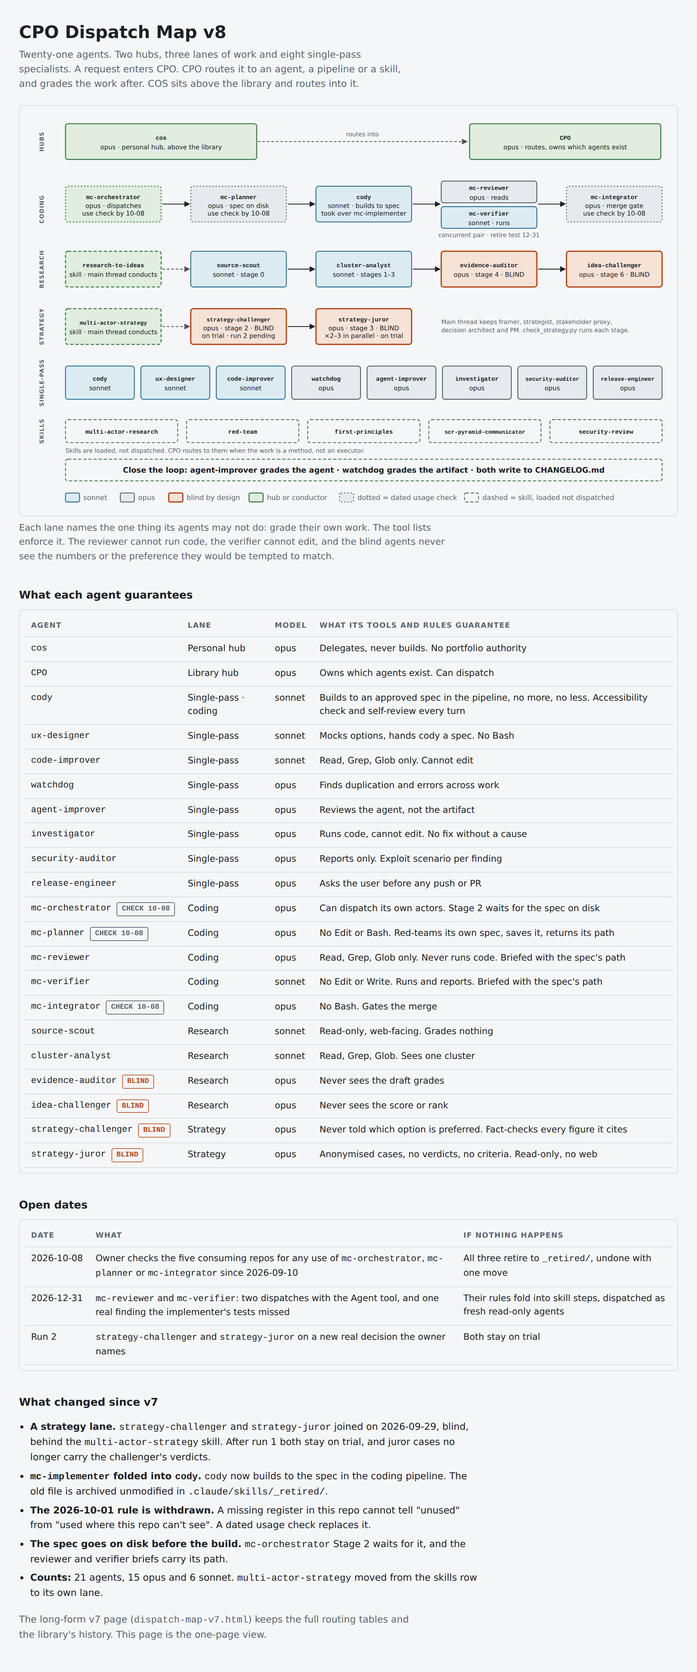
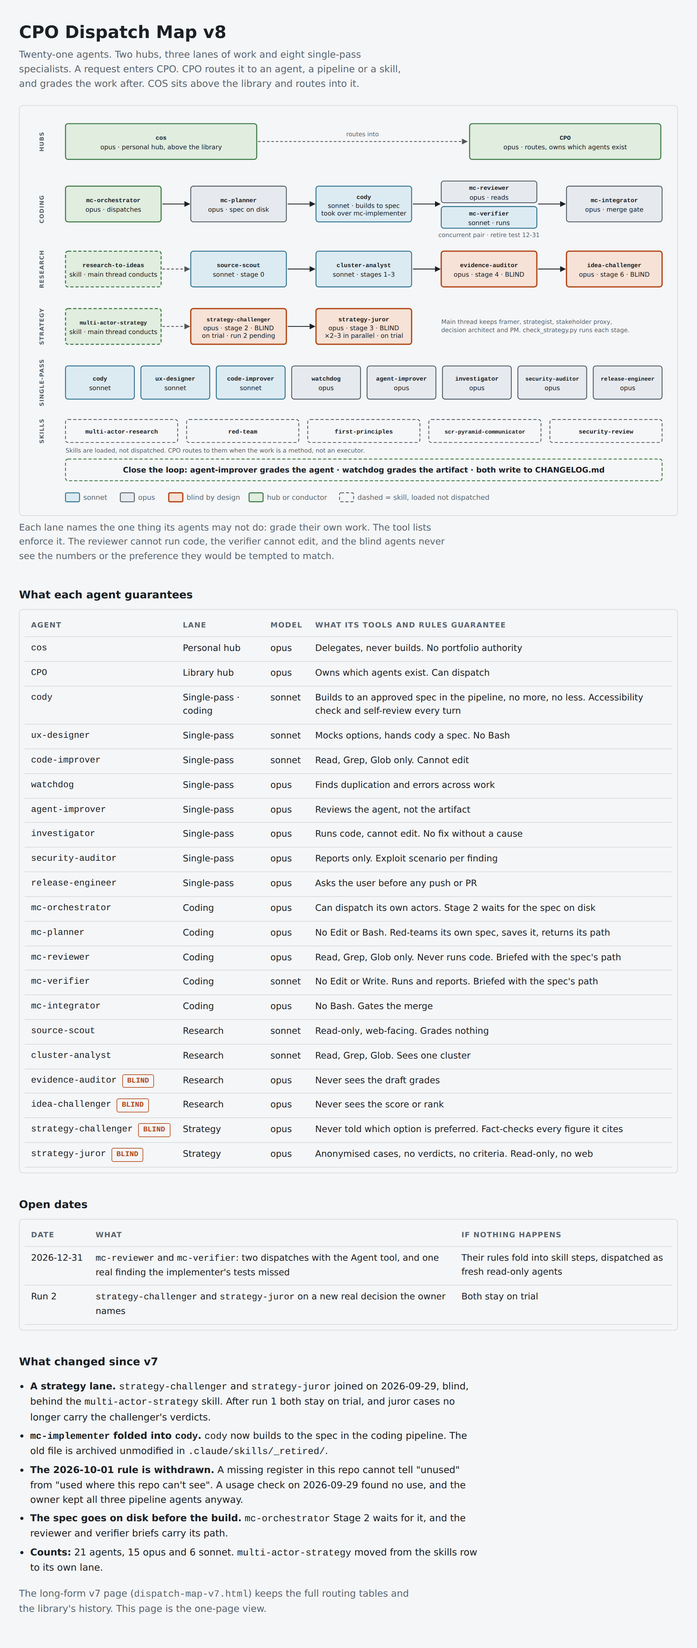
Record mc-* usage check: no use found, owner keeps all three
Checked four consuming repos (all branches) and 85 cloud sessions since
2026-09-10: agents present, not used. Owner keeps mc-orchestrator,
mc-planner and mc-integrator; the 2026-10-08 retirement default is
cancelled. Evidence in work-samples/mc-usage-check-2026-09-29.md.
CPO open items, ledger and dispatch map v8 updated.

Claude-Session: https://claude.ai/code/session_01Vca5TBjGxLdbmneNzGJ286

Changed region(s): [[0.0309, 0.0312, 0.9582, 0.9969], [0.0309, 0.2181, 0.0618, 0.2492]]

diff --git a/dispatch-map-v8.html b/dispatch-map-v8.html
@@ -56,7 +56,7 @@ td.nw{white-space:nowrap}
 <p class="lede">Twenty-one agents. Two hubs, three lanes of work and eight single-pass specialists. A request enters CPO. CPO routes it to an agent, a pipeline or a skill, and grades the work after. COS sits above the library and routes into it.</p>
 
 <figure>
-<div class="scroll"><svg viewBox="0 96 1016 626" role="img" aria-label="Dispatch map: COS routes into CPO. Coding lane: mc-orchestrator, mc-planner, cody building to spec, the mc-reviewer and mc-verifier pair, mc-integrator. Research lane: research-to-ideas skill with four agents. Strategy lane: multi-actor-strategy skill with strategy-challenger and strategy-juror. Eight single-pass specialists and five skills." xmlns="http://www.w3.org/2000/svg"><defs><marker id="ar" viewBox="0 0 8 8" refX="7" refY="4" markerWidth="7" markerHeight="7" orient="auto"><path d="M0 0L8 4L0 8z" fill="currentColor"/></marker></defs><text x="0" y="0" class="lane" text-anchor="middle" transform="translate(30 144) rotate(-90)">HUBS</text><rect class="hub" x="64" y="116" width="300" height="56" rx="4"/><text class="an" x="214.0" y="141.0" text-anchor="middle">cos</text><text class="as" x="214.0" y="156.0" text-anchor="middle">opus · personal hub, above the library</text><rect class="hub" x="698" y="116" width="300" height="56" rx="4"/><text class="an" x="848.0" y="141.0" text-anchor="middle">CPO</text><text class="as" x="848.0" y="156.0" text-anchor="middle">opus · routes, owns which agents exist</text><line class="brief" x1="366" y1="144" x2="694" y2="144" marker-end="url(#ar)"/><text class="cap" x="530" y="136" text-anchor="middle">routes into</text><text x="0" y="0" class="lane" text-anchor="middle" transform="translate(30 250) rotate(-90)">CODING</text><rect class="hub trial" x="64.0" y="214" width="150" height="56" rx="4"/><text class="an" x="139.0" y="234.0" text-anchor="middle">mc-orchestrator</text><text class="as" x="139.0" y="248.0" text-anchor="middle">opus · dispatches</text><text class="as" x="139.0" y="260.0" text-anchor="middle">use check by 10-08</text><rect class="opus trial" x="260.5" y="214" width="150" height="56" rx="4"/><text class="an" x="335.5" y="234.0" text-anchor="middle">mc-planner</text><text class="as" x="335.5" y="248.0" text-anchor="middle">opus · spec on disk</text><text class="as" x="335.5" y="260.0" text-anchor="middle">use check by 10-08</text><rect class="agent" x="457.0" y="214" width="150" height="56" rx="4"/><text class="an" x="532.0" y="234.0" text-anchor="middle">cody</text><text class="as" x="532.0" y="248.0" text-anchor="middle">sonnet · builds to spec</text><text class="as" x="532.0" y="260.0" text-anchor="middle">took over mc-implementer</text><rect class="opus" x="653.5" y="206" width="150" height="34" rx="4"/><text class="an" x="728.5" y="220.0" text-anchor="middle">mc-reviewer</text><text class="as" x="728.5" y="235.0" text-anchor="middle">opus · reads</text><rect class="agent" x="653.5" y="246" width="150" height="34" rx="4"/><text class="an" x="728.5" y="260.0" text-anchor="middle">mc-verifier</text><text class="as" x="728.5" y="275.0" text-anchor="middle">sonnet · runs</text><text class="cap" x="728.5" y="294" text-anchor="middle">concurrent pair · retire test 12-31</text><rect class="opus trial" x="850.0" y="214" width="150" height="56" rx="4"/><text class="an" x="925.0" y="234.0" text-anchor="middle">mc-integrator</text><text class="as" x="925.0" y="248.0" text-anchor="middle">opus · merge gate</text><text class="as" x="925.0" y="260.0" text-anchor="middle">use check by 10-08</text><line x1="216.0" y1="242.0" x2="258.5" y2="242.0" marker-end="url(#ar)"/><line x1="412.5" y1="242.0" x2="455.0" y2="242.0" marker-end="url(#ar)"/><line x1="609.0" y1="242.0" x2="651.5" y2="242.0" marker-end="url(#ar)"/><line x1="805.5" y1="242.0" x2="848.0" y2="242.0" marker-end="url(#ar)"/><text x="0" y="0" class="lane" text-anchor="middle" transform="translate(30 344) rotate(-90)">RESEARCH</text><rect class="skillhub" x="64.0" y="316" width="150" height="56" rx="4"/><text class="an" x="139.0" y="341.0" text-anchor="middle">research-to-ideas</text><text class="as" x="139.0" y="356.0" text-anchor="middle">skill · main thread conducts</text><rect class="agent" x="260.5" y="316" width="150" height="56" rx="4"/><text class="an" x="335.5" y="341.0" text-anchor="middle">source-scout</text><text class="as" x="335.5" y="356.0" text-anchor="middle">sonnet · stage 0</text><rect class="agent" x="457.0" y="316" width="150" height="56" rx="4"/><text class="an" x="532.0" y="341.0" text-anchor="middle">cluster-analyst</text><text class="as" x="532.0" y="356.0" text-anchor="middle">sonnet · stages 1–3</text><rect class="blind" x="653.5" y="316" width="150" height="56" rx="4"/><text class="an" x="728.5" y="341.0" text-anchor="middle">evidence-auditor</text><text class="as" x="728.5" y="356.0" text-anchor="middle">opus · stage 4 · BLIND</text><rect class="blind" x="850.0" y="316" width="150" height="56" rx="4"/><text class="an" x="925.0" y="341.0" text-anchor="middle">idea-challenger</text><text class="as" x="925.0" y="356.0" text-anchor="middle">opus · stage 6 · BLIND</text><line class="brief" x1="216.0" y1="344" x2="258.5" y2="344" marker-end="url(#ar)"/><line x1="412.5" y1="344" x2="455.0" y2="344" marker-end="url(#ar)"/><line x1="609.0" y1="344" x2="651.5" y2="344" marker-end="url(#ar)"/><line x1="805.5" y1="344" x2="848.0" y2="344" marker-end="url(#ar)"/><text x="0" y="0" class="lane" text-anchor="middle" transform="translate(30 434) rotate(-90)">STRATEGY</text><rect class="skillhub" x="64.0" y="406" width="150" height="56" rx="4"/><text class="an" x="139.0" y="431.0" text-anchor="middle" style="font-size:8.8px">multi-actor-strategy</text><text class="as" x="139.0" y="446.0" text-anchor="middle">skill · main thread conducts</text><rect class="blind" x="260.5" y="406" width="150" height="56" rx="4"/><text class="an" x="335.5" y="426.0" text-anchor="middle" style="font-size:8.8px">strategy-challenger</text><text class="as" x="335.5" y="440.0" text-anchor="middle">opus · stage 2 · BLIND</text><text class="as" x="335.5" y="452.0" text-anchor="middle">on trial · run 2 pending</text><rect class="blind" x="457.0" y="406" width="150" height="56" rx="4"/><text class="an" x="532.0" y="426.0" text-anchor="middle">strategy-juror</text><text class="as" x="532.0" y="440.0" text-anchor="middle">opus · stage 3 · BLIND</text><text class="as" x="532.0" y="452.0" text-anchor="middle">×2–3 in parallel · on trial</text><line class="brief" x1="216.0" y1="434" x2="258.5" y2="434" marker-end="url(#ar)"/><line x1="412.5" y1="434" x2="455.0" y2="434" marker-end="url(#ar)"/><text class="cap" x="653.5" y="430">Main thread keeps framer, strategist, stakeholder proxy,</text><text class="cap" x="653.5" y="443">decision architect and PM. check_strategy.py runs each stage.</text><text x="0" y="0" class="lane" text-anchor="middle" transform="translate(30 522) rotate(-90)">SINGLE-PASS</text><rect class="agent" x="64.0" y="496" width="108" height="52" rx="4"/><text class="an" x="118.0" y="519.0" text-anchor="middle">cody</text><text class="as" x="118.0" y="534.0" text-anchor="middle">sonnet</text><rect class="agent" x="182.28571428571428" y="496" width="108" height="52" rx="4"/><text class="an" x="236.28571428571428" y="519.0" text-anchor="middle">ux-designer</text><text class="as" x="236.28571428571428" y="534.0" text-anchor="middle">sonnet</text><rect class="agent" x="300.57142857142856" y="496" width="108" height="52" rx="4"/><text class="an" x="354.57142857142856" y="519.0" text-anchor="middle">code-improver</text><text class="as" x="354.57142857142856" y="534.0" text-anchor="middle">sonnet</text><rect class="opus" x="418.8571428571429" y="496" width="108" height="52" rx="4"/><text class="an" x="472.8571428571429" y="519.0" text-anchor="middle">watchdog</text><text class="as" x="472.8571428571429" y="534.0" text-anchor="middle">opus</text><rect class="opus" x="537.1428571428571" y="496" width="108" height="52" rx="4"/><text class="an" x="591.1428571428571" y="519.0" text-anchor="middle">agent-improver</text><text class="as" x="591.1428571428571" y="534.0" text-anchor="middle">opus</text><rect class="opus" x="655.4285714285714" y="496" width="108" height="52" rx="4"/><text class="an" x="709.4285714285714" y="519.0" text-anchor="middle">investigator</text><text class="as" x="709.4285714285714" y="534.0" text-anchor="middle">opus</text><rect class="opus" x="773.7142857142858" y="496" width="108" height="52" rx="4"/><text class="an" x="827.7142857142858" y="519.0" text-anchor="middle" style="font-size:8.8px">security-auditor</text><text class="as" x="827.7142857142858" y="534.0" text-anchor="middle">opus</text><rect class="opus" x="892.0" y="496" width="108" height="52" rx="4"/><text class="an" x="946.0" y="519.0" text-anchor="middle" style="font-size:8.8px">release-engineer</text><text class="as" x="946.0" y="534.0" text-anchor="middle">opus</text><text x="0" y="0" class="lane" text-anchor="middle" transform="translate(30 598) rotate(-90)">SKILLS</text><rect class="skill" x="64.0" y="580" width="176.0" height="36" rx="4"/><text class="an" x="152.0" y="602.0" text-anchor="middle">multi-actor-research</text><rect class="skill" x="254.0" y="580" width="176.0" height="36" rx="4"/><text class="an" x="342.0" y="602.0" text-anchor="middle">red-team</text><rect class="skill" x="444.0" y="580" width="176.0" height="36" rx="4"/><text class="an" x="532.0" y="602.0" text-anchor="middle">first-principles</text><rect class="skill" x="634.0" y="580" width="176.0" height="36" rx="4"/><text class="an" x="722.0" y="602.0" text-anchor="middle" style="font-size:8.8px">scr-pyramid-communicator</text><rect class="skill" x="824.0" y="580" width="176.0" height="36" rx="4"/><text class="an" x="912.0" y="602.0" text-anchor="middle">security-review</text><text class="cap" x="64" y="632">Skills are loaded, not dispatched. CPO routes to them when the work is a method, not an executor.</text><rect class="loop" x="64" y="642" width="936" height="34" rx="4"/><text class="lt" x="532" y="663" text-anchor="middle">Close the loop: agent-improver grades the agent · watchdog grades the artifact · both write to CHANGELOG.md</text><rect class="agent" x="64" y="695" width="22" height="14" rx="2"/><text class="lg" x="92" y="706">sonnet</text><rect class="opus" x="150" y="695" width="22" height="14" rx="2"/><text class="lg" x="178" y="706">opus</text><rect class="blind" x="226" y="695" width="22" height="14" rx="2"/><text class="lg" x="254" y="706">blind by design</text><rect class="hub" x="352" y="695" width="22" height="14" rx="2"/><text class="lg" x="380" y="706">hub or conductor</text><rect class="opus trial" x="494" y="695" width="22" height="14" rx="2"/><text class="lg" x="522" y="706">dotted = dated usage check</text><rect class="skill" x="690" y="695" width="22" height="14" rx="2"/><text class="lg" x="718" y="706">dashed = skill, loaded not dispatched</text></svg></div>
+<div class="scroll"><svg viewBox="0 96 1016 626" role="img" aria-label="Dispatch map: COS routes into CPO. Coding lane: mc-orchestrator, mc-planner, cody building to spec, the mc-reviewer and mc-verifier pair, mc-integrator. Research lane: research-to-ideas skill with four agents. Strategy lane: multi-actor-strategy skill with strategy-challenger and strategy-juror. Eight single-pass specialists and five skills." xmlns="http://www.w3.org/2000/svg"><defs><marker id="ar" viewBox="0 0 8 8" refX="7" refY="4" markerWidth="7" markerHeight="7" orient="auto"><path d="M0 0L8 4L0 8z" fill="currentColor"/></marker></defs><text x="0" y="0" class="lane" text-anchor="middle" transform="translate(30 144) rotate(-90)">HUBS</text><rect class="hub" x="64" y="116" width="300" height="56" rx="4"/><text class="an" x="214.0" y="141.0" text-anchor="middle">cos</text><text class="as" x="214.0" y="156.0" text-anchor="middle">opus · personal hub, above the library</text><rect class="hub" x="698" y="116" width="300" height="56" rx="4"/><text class="an" x="848.0" y="141.0" text-anchor="middle">CPO</text><text class="as" x="848.0" y="156.0" text-anchor="middle">opus · routes, owns which agents exist</text><line class="brief" x1="366" y1="144" x2="694" y2="144" marker-end="url(#ar)"/><text class="cap" x="530" y="136" text-anchor="middle">routes into</text><text x="0" y="0" class="lane" text-anchor="middle" transform="translate(30 250) rotate(-90)">CODING</text><rect class="hub" x="64.0" y="214" width="150" height="56" rx="4"/><text class="an" x="139.0" y="239.0" text-anchor="middle">mc-orchestrator</text><text class="as" x="139.0" y="254.0" text-anchor="middle">opus · dispatches</text><rect class="opus" x="260.5" y="214" width="150" height="56" rx="4"/><text class="an" x="335.5" y="239.0" text-anchor="middle">mc-planner</text><text class="as" x="335.5" y="254.0" text-anchor="middle">opus · spec on disk</text><rect class="agent" x="457.0" y="214" width="150" height="56" rx="4"/><text class="an" x="532.0" y="234.0" text-anchor="middle">cody</text><text class="as" x="532.0" y="248.0" text-anchor="middle">sonnet · builds to spec</text><text class="as" x="532.0" y="260.0" text-anchor="middle">took over mc-implementer</text><rect class="opus" x="653.5" y="206" width="150" height="34" rx="4"/><text class="an" x="728.5" y="220.0" text-anchor="middle">mc-reviewer</text><text class="as" x="728.5" y="235.0" text-anchor="middle">opus · reads</text><rect class="agent" x="653.5" y="246" width="150" height="34" rx="4"/><text class="an" x="728.5" y="260.0" text-anchor="middle">mc-verifier</text><text class="as" x="728.5" y="275.0" text-anchor="middle">sonnet · runs</text><text class="cap" x="728.5" y="294" text-anchor="middle">concurrent pair · retire test 12-31</text><rect class="opus" x="850.0" y="214" width="150" height="56" rx="4"/><text class="an" x="925.0" y="239.0" text-anchor="middle">mc-integrator</text><text class="as" x="925.0" y="254.0" text-anchor="middle">opus · merge gate</text><line x1="216.0" y1="242.0" x2="258.5" y2="242.0" marker-end="url(#ar)"/><line x1="412.5" y1="242.0" x2="455.0" y2="242.0" marker-end="url(#ar)"/><line x1="609.0" y1="242.0" x2="651.5" y2="242.0" marker-end="url(#ar)"/><line x1="805.5" y1="242.0" x2="848.0" y2="242.0" marker-end="url(#ar)"/><text x="0" y="0" class="lane" text-anchor="middle" transform="translate(30 344) rotate(-90)">RESEARCH</text><rect class="skillhub" x="64.0" y="316" width="150" height="56" rx="4"/><text class="an" x="139.0" y="341.0" text-anchor="middle">research-to-ideas</text><text class="as" x="139.0" y="356.0" text-anchor="middle">skill · main thread conducts</text><rect class="agent" x="260.5" y="316" width="150" height="56" rx="4"/><text class="an" x="335.5" y="341.0" text-anchor="middle">source-scout</text><text class="as" x="335.5" y="356.0" text-anchor="middle">sonnet · stage 0</text><rect class="agent" x="457.0" y="316" width="150" height="56" rx="4"/><text class="an" x="532.0" y="341.0" text-anchor="middle">cluster-analyst</text><text class="as" x="532.0" y="356.0" text-anchor="middle">sonnet · stages 1–3</text><rect class="blind" x="653.5" y="316" width="150" height="56" rx="4"/><text class="an" x="728.5" y="341.0" text-anchor="middle">evidence-auditor</text><text class="as" x="728.5" y="356.0" text-anchor="middle">opus · stage 4 · BLIND</text><rect class="blind" x="850.0" y="316" width="150" height="56" rx="4"/><text class="an" x="925.0" y="341.0" text-anchor="middle">idea-challenger</text><text class="as" x="925.0" y="356.0" text-anchor="middle">opus · stage 6 · BLIND</text><line class="brief" x1="216.0" y1="344" x2="258.5" y2="344" marker-end="url(#ar)"/><line x1="412.5" y1="344" x2="455.0" y2="344" marker-end="url(#ar)"/><line x1="609.0" y1="344" x2="651.5" y2="344" marker-end="url(#ar)"/><line x1="805.5" y1="344" x2="848.0" y2="344" marker-end="url(#ar)"/><text x="0" y="0" class="lane" text-anchor="middle" transform="translate(30 434) rotate(-90)">STRATEGY</text><rect class="skillhub" x="64.0" y="406" width="150" height="56" rx="4"/><text class="an" x="139.0" y="431.0" text-anchor="middle" style="font-size:8.8px">multi-actor-strategy</text><text class="as" x="139.0" y="446.0" text-anchor="middle">skill · main thread conducts</text><rect class="blind" x="260.5" y="406" width="150" height="56" rx="4"/><text class="an" x="335.5" y="426.0" text-anchor="middle" style="font-size:8.8px">strategy-challenger</text><text class="as" x="335.5" y="440.0" text-anchor="middle">opus · stage 2 · BLIND</text><text class="as" x="335.5" y="452.0" text-anchor="middle">on trial · run 2 pending</text><rect class="blind" x="457.0" y="406" width="150" height="56" rx="4"/><text class="an" x="532.0" y="426.0" text-anchor="middle">strategy-juror</text><text class="as" x="532.0" y="440.0" text-anchor="middle">opus · stage 3 · BLIND</text><text class="as" x="532.0" y="452.0" text-anchor="middle">×2–3 in parallel · on trial</text><line class="brief" x1="216.0" y1="434" x2="258.5" y2="434" marker-end="url(#ar)"/><line x1="412.5" y1="434" x2="455.0" y2="434" marker-end="url(#ar)"/><text class="cap" x="653.5" y="430">Main thread keeps framer, strategist, stakeholder proxy,</text><text class="cap" x="653.5" y="443">decision architect and PM. check_strategy.py runs each stage.</text><text x="0" y="0" class="lane" text-anchor="middle" transform="translate(30 522) rotate(-90)">SINGLE-PASS</text><rect class="agent" x="64.0" y="496" width="108" height="52" rx="4"/><text class="an" x="118.0" y="519.0" text-anchor="middle">cody</text><text class="as" x="118.0" y="534.0" text-anchor="middle">sonnet</text><rect class="agent" x="182.28571428571428" y="496" width="108" height="52" rx="4"/><text class="an" x="236.28571428571428" y="519.0" text-anchor="middle">ux-designer</text><text class="as" x="236.28571428571428" y="534.0" text-anchor="middle">sonnet</text><rect class="agent" x="300.57142857142856" y="496" width="108" height="52" rx="4"/><text class="an" x="354.57142857142856" y="519.0" text-anchor="middle">code-improver</text><text class="as" x="354.57142857142856" y="534.0" text-anchor="middle">sonnet</text><rect class="opus" x="418.8571428571429" y="496" width="108" height="52" rx="4"/><text class="an" x="472.8571428571429" y="519.0" text-anchor="middle">watchdog</text><text class="as" x="472.8571428571429" y="534.0" text-anchor="middle">opus</text><rect class="opus" x="537.1428571428571" y="496" width="108" height="52" rx="4"/><text class="an" x="591.1428571428571" y="519.0" text-anchor="middle">agent-improver</text><text class="as" x="591.1428571428571" y="534.0" text-anchor="middle">opus</text><rect class="opus" x="655.4285714285714" y="496" width="108" height="52" rx="4"/><text class="an" x="709.4285714285714" y="519.0" text-anchor="middle">investigator</text><text class="as" x="709.4285714285714" y="534.0" text-anchor="middle">opus</text><rect class="opus" x="773.7142857142858" y="496" width="108" height="52" rx="4"/><text class="an" x="827.7142857142858" y="519.0" text-anchor="middle" style="font-size:8.8px">security-auditor</text><text class="as" x="827.7142857142858" y="534.0" text-anchor="middle">opus</text><rect class="opus" x="892.0" y="496" width="108" height="52" rx="4"/><text class="an" x="946.0" y="519.0" text-anchor="middle" style="font-size:8.8px">release-engineer</text><text class="as" x="946.0" y="534.0" text-anchor="middle">opus</text><text x="0" y="0" class="lane" text-anchor="middle" transform="translate(30 598) rotate(-90)">SKILLS</text><rect class="skill" x="64.0" y="580" width="176.0" height="36" rx="4"/><text class="an" x="152.0" y="602.0" text-anchor="middle">multi-actor-research</text><rect class="skill" x="254.0" y="580" width="176.0" height="36" rx="4"/><text class="an" x="342.0" y="602.0" text-anchor="middle">red-team</text><rect class="skill" x="444.0" y="580" width="176.0" height="36" rx="4"/><text class="an" x="532.0" y="602.0" text-anchor="middle">first-principles</text><rect class="skill" x="634.0" y="580" width="176.0" height="36" rx="4"/><text class="an" x="722.0" y="602.0" text-anchor="middle" style="font-size:8.8px">scr-pyramid-communicator</text><rect class="skill" x="824.0" y="580" width="176.0" height="36" rx="4"/><text class="an" x="912.0" y="602.0" text-anchor="middle">security-review</text><text class="cap" x="64" y="632">Skills are loaded, not dispatched. CPO routes to them when the work is a method, not an executor.</text><rect class="loop" x="64" y="642" width="936" height="34" rx="4"/><text class="lt" x="532" y="663" text-anchor="middle">Close the loop: agent-improver grades the agent · watchdog grades the artifact · both write to CHANGELOG.md</text><rect class="agent" x="64" y="695" width="22" height="14" rx="2"/><text class="lg" x="92" y="706">sonnet</text><rect class="opus" x="150" y="695" width="22" height="14" rx="2"/><text class="lg" x="178" y="706">opus</text><rect class="blind" x="226" y="695" width="22" height="14" rx="2"/><text class="lg" x="254" y="706">blind by design</text><rect class="hub" x="352" y="695" width="22" height="14" rx="2"/><text class="lg" x="380" y="706">hub or conductor</text><rect class="skill" x="494" y="695" width="22" height="14" rx="2"/><text class="lg" x="522" y="706">dashed = skill, loaded not dispatched</text></svg></div>
 <figcaption>Each lane names the one thing its agents may not do: grade their own work. The tool lists enforce it. The reviewer cannot run code, the verifier cannot edit, and the blind agents never see the numbers or the preference they would be tempted to match.</figcaption>
 </figure>
 
@@ -74,11 +74,11 @@ td.nw{white-space:nowrap}
 <tr><td class="n">investigator</td><td>Single-pass</td><td>opus</td><td>Runs code, cannot edit. No fix without a cause</td></tr>
 <tr><td class="n">security-auditor</td><td>Single-pass</td><td>opus</td><td>Reports only. Exploit scenario per finding</td></tr>
 <tr><td class="n">release-engineer</td><td>Single-pass</td><td>opus</td><td>Asks the user before any push or PR</td></tr>
-<tr><td class="n">mc-orchestrator <span class="tag trial">CHECK 10-08</span></td><td>Coding</td><td>opus</td><td>Can dispatch its own actors. Stage 2 waits for the spec on disk</td></tr>
-<tr><td class="n">mc-planner <span class="tag trial">CHECK 10-08</span></td><td>Coding</td><td>opus</td><td>No Edit or Bash. Red-teams its own spec, saves it, returns its path</td></tr>
+<tr><td class="n">mc-orchestrator</td><td>Coding</td><td>opus</td><td>Can dispatch its own actors. Stage 2 waits for the spec on disk</td></tr>
+<tr><td class="n">mc-planner</td><td>Coding</td><td>opus</td><td>No Edit or Bash. Red-teams its own spec, saves it, returns its path</td></tr>
 <tr><td class="n">mc-reviewer</td><td>Coding</td><td>opus</td><td>Read, Grep, Glob only. Never runs code. Briefed with the spec's path</td></tr>
 <tr><td class="n">mc-verifier</td><td>Coding</td><td>sonnet</td><td>No Edit or Write. Runs and reports. Briefed with the spec's path</td></tr>
-<tr><td class="n">mc-integrator <span class="tag trial">CHECK 10-08</span></td><td>Coding</td><td>opus</td><td>No Bash. Gates the merge</td></tr>
+<tr><td class="n">mc-integrator</td><td>Coding</td><td>opus</td><td>No Bash. Gates the merge</td></tr>
 <tr><td class="n">source-scout</td><td>Research</td><td>sonnet</td><td>Read-only, web-facing. Grades nothing</td></tr>
 <tr><td class="n">cluster-analyst</td><td>Research</td><td>sonnet</td><td>Read, Grep, Glob. Sees one cluster</td></tr>
 <tr><td class="n">evidence-auditor <span class="tag">BLIND</span></td><td>Research</td><td>opus</td><td>Never sees the draft grades</td></tr>
@@ -91,7 +91,6 @@ td.nw{white-space:nowrap}
 <div class="scroll"><table>
 <thead><tr><th>Date</th><th>What</th><th>If nothing happens</th></tr></thead>
 <tbody>
-<tr><td class="nw">2026-10-08</td><td>Owner checks the five consuming repos for any use of <code>mc-orchestrator</code>, <code>mc-planner</code> or <code>mc-integrator</code> since 2026-09-10</td><td>All three retire to <code>_retired/</code>, undone with one move</td></tr>
 <tr><td class="nw">2026-12-31</td><td><code>mc-reviewer</code> and <code>mc-verifier</code>: two dispatches with the Agent tool, and one real finding the implementer's tests missed</td><td>Their rules fold into skill steps, dispatched as fresh read-only agents</td></tr>
 <tr><td class="nw">Run 2</td><td><code>strategy-challenger</code> and <code>strategy-juror</code> on a new real decision the owner names</td><td>Both stay on trial</td></tr>
 </tbody></table></div>
@@ -100,7 +99,7 @@ td.nw{white-space:nowrap}
 <ul>
 <li><strong>A strategy lane.</strong> <code>strategy-challenger</code> and <code>strategy-juror</code> joined on 2026-09-29, blind, behind the <code>multi-actor-strategy</code> skill. After run 1 both stay on trial, and juror cases no longer carry the challenger's verdicts.</li>
 <li><strong><code>mc-implementer</code> folded into <code>cody</code>.</strong> <code>cody</code> now builds to the spec in the coding pipeline. The old file is archived unmodified in <code>.claude/skills/_retired/</code>.</li>
-<li><strong>The 2026-10-01 rule is withdrawn.</strong> A missing register in this repo cannot tell "unused" from "used where this repo can't see". A dated usage check replaces it.</li>
+<li><strong>The 2026-10-01 rule is withdrawn.</strong> A missing register in this repo cannot tell "unused" from "used where this repo can't see". A usage check on 2026-09-29 found no use, and the owner kept all three pipeline agents anyway.</li>
 <li><strong>The spec goes on disk before the build.</strong> <code>mc-orchestrator</code> Stage 2 waits for it, and the reviewer and verifier briefs carry its path.</li>
 <li><strong>Counts:</strong> 21 agents, 15 opus and 6 sonnet. <code>multi-actor-strategy</code> moved from the skills row to its own lane.</li>
 </ul>

diff --git a/work-samples/mc-usage-check-2026-09-29.md b/work-samples/mc-usage-check-2026-09-29.md
@@ -1,0 +1,31 @@
+# `mc-*` usage check, 2026-09-29
+
+The usage check on `mc-orchestrator`, `mc-planner` and `mc-integrator` that the 2026-09-29
+`library — portfolio` entry in `CHANGELOG.md` set for 2026-10-08. Run early, on the owner's request.
+
+**Question:** has any of the three been used since 2026-09-10 in the consuming repos?
+
+**Answer: no use found.** Owner decision on this result: **keep all three.** No retirement, no
+new default.
+
+## What was checked
+
+| Source | Scope | Result |
+|---|---|---|
+| Git history, BalanceBolt | Every branch, cloned read-only; commit messages since 2026-09-10; every file outside `.claude/agents` and `.claude/skills` | No use. Matches were library copies (`.claude/references/*`) and one comment in `run-tests.mjs` saying `mc-verifier` can run it |
+| Git history, BalanceTRI-app | As above | No use. Matches were library copies only |
+| Git history, CLACFridays | As above | No use. Matches were library copies only |
+| Git history, tri-momentum | As above | No use of the three. `CLAUDE.md` records an independent `mc-reviewer` catching three defects self-review missed, from about 2026-09-01 (before the window, and the pair, not the three) |
+| Pipeline artefacts, all four repos | Every branch; searched for Stage Registers, Handoff Notes, specs with acceptance criteria or non-goals | None found |
+| Cloud sessions | 85 sessions created since 2026-09-10 (47 BalanceTRI-app, 17 agent-skills-library, 11 BalanceBolt, 4 CLACFridays, 1 tri-momentum, 5 with no repo); titles and summaries | None names the three or the coding pipeline. The one session naming any `mc-*` agent was a 2026-09-12 agent availability check (a probe, not use) |
+
+All four repos hold the six `mc-*` agent files on their default branch, synced from this library.
+The agents were **present** in every repo. They were not **used**.
+
+## Not checked
+
+- **"personal"**: no repo by that name exists on GitHub for this account.
+- **Local sessions** run on the owner's machine: not in the cloud session list.
+- **Session transcripts**: only titles and summaries were read, not full events.
+
+If any of these holds a pipeline run, this result is wrong.

diff --git a/.claude/agents/CPO.md b/.claude/agents/CPO.md
@@ -173,7 +173,7 @@ Routing and loop-closing are per-request. Portfolio authority is the standing jo
 
 **Open composition items — read at every launch, act on the date.** Owner-approved 2026-09-29 ("Proceed with recommendations"); detail in the `CHANGELOG.md` `library — portfolio` entry of that date.
 - **The 2026-10-01 "no register, answer on that" rule is withdrawn**, never signed. This repo's missing register can't tell "unused" from "used where this repo can't see".
-- **By 2026-10-08, check use of `mc-orchestrator`, `mc-planner` and `mc-integrator`.** The owner checks session history and git logs in the five consuming repos (BalanceTRI-app, tri-momentum, CLACFridays, BalanceBolt, personal) for any use since 2026-09-10. **Default if no result by then:** retire all three to `.claude/skills/_retired/`, reversible with one `mv`. If use turns up: keep them, then run one real BalanceBolt task through the pipeline and inline, side by side.
+- **Usage check on `mc-orchestrator`, `mc-planner` and `mc-integrator`: done 2026-09-29, and the owner kept all three.** No use found since 2026-09-10 in four consuming repos or 85 cloud sessions; the agents were present but unused. The owner chose to keep them, with no retirement default and no new date. Evidence and gaps (no "personal" repo on GitHub; local sessions unseen): `work-samples/mc-usage-check-2026-09-29.md`.
 - **By 2026-12-31, the `mc-reviewer` + `mc-verifier` retire test.** It needs at least two dispatches of the pair in sessions that had the Agent tool, and at least one real finding the implementer's own tests missed. Miss the bar and the pair's rules fold into skill steps, dispatched as fresh read-only agents.
 
 **What it explicitly does not cover.** Portfolio authority is not delivery authority. CPO does not absorb the pipelines, does not arbitrate a Reviewer/Verifier conflict (that is the Integrator's call inside `mc-orchestrator`), and does not grade the work it routed (that is `watchdog`'s job on the artifact, `agent-improver`'s on the agent).

diff --git a/CHANGELOG.md b/CHANGELOG.md
@@ -68,6 +68,13 @@ Counts are entries whose **heading names** the agent — which includes creation
 
 <!-- New entries below this line, newest first -->
 
+## 2026-09-29 — library — portfolio (`mc-*` usage check closed: owner keeps all three)
+- Decision: **keep `mc-orchestrator`, `mc-planner` and `mc-integrator`**, owner's call on the usage-check result. The 2026-10-08 retirement default is cancelled, with no replacement date.
+- Evidence: no use since 2026-09-10 in BalanceBolt, BalanceTRI-app, CLACFridays or tri-momentum (git history, every branch, no pipeline artefacts), nor in 85 cloud sessions. The agents were present in every repo but not used. Produced by the main session, not CPO; read-only. Gaps: no "personal" repo on GitHub, local sessions unseen, session titles and summaries only. Full record: `work-samples/mc-usage-check-2026-09-29.md`.
+- Against it: the evidence favoured the default (retire). The owner kept them anyway, which is the owner's right; recorded so a later audit does not read "kept" as "used".
+- Unchanged: the `mc-reviewer` + `mc-verifier` retire test (2026-12-31) and `strategy-*` run 2.
+- Changed: `CPO.md` open composition items; dispatch map v8 (trial markers and the 10-08 row removed, PNG regenerated).
+
 ## 2026-09-29 — strategy-challenger
 - Verdict: Fit for run 2; step 7's fact-check now also covers claims taken from the inputs pack, where its worst error arose.
 - Scores: 1 S · 2 S · 3 S · 4 S · 5 A · 6 A · 7 S
